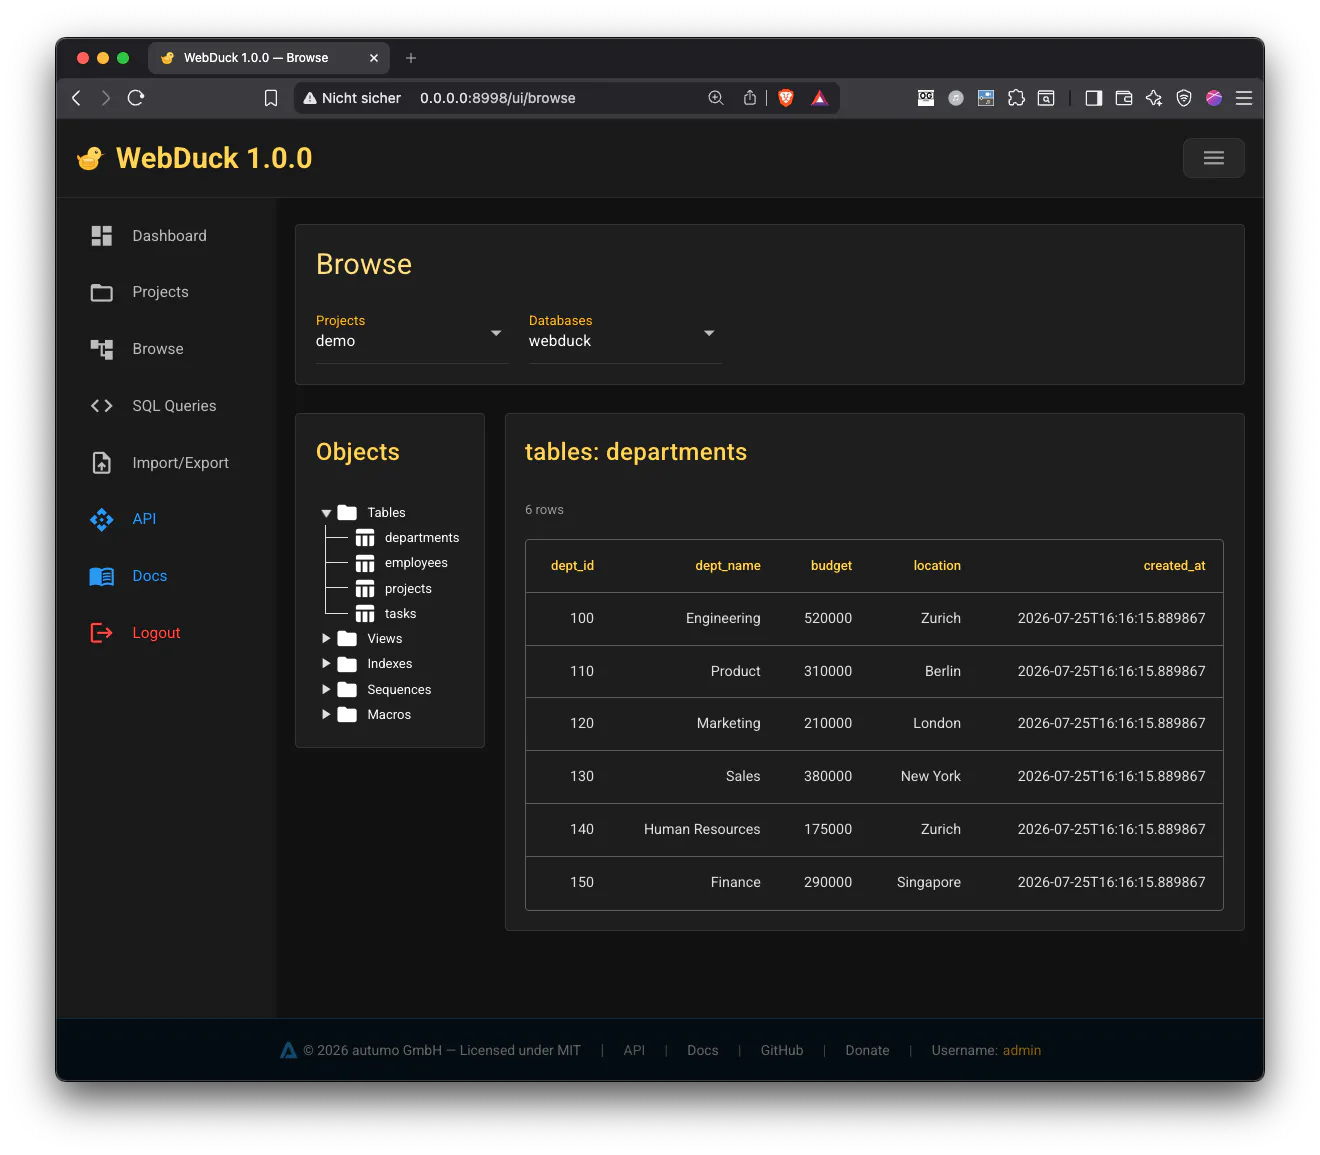
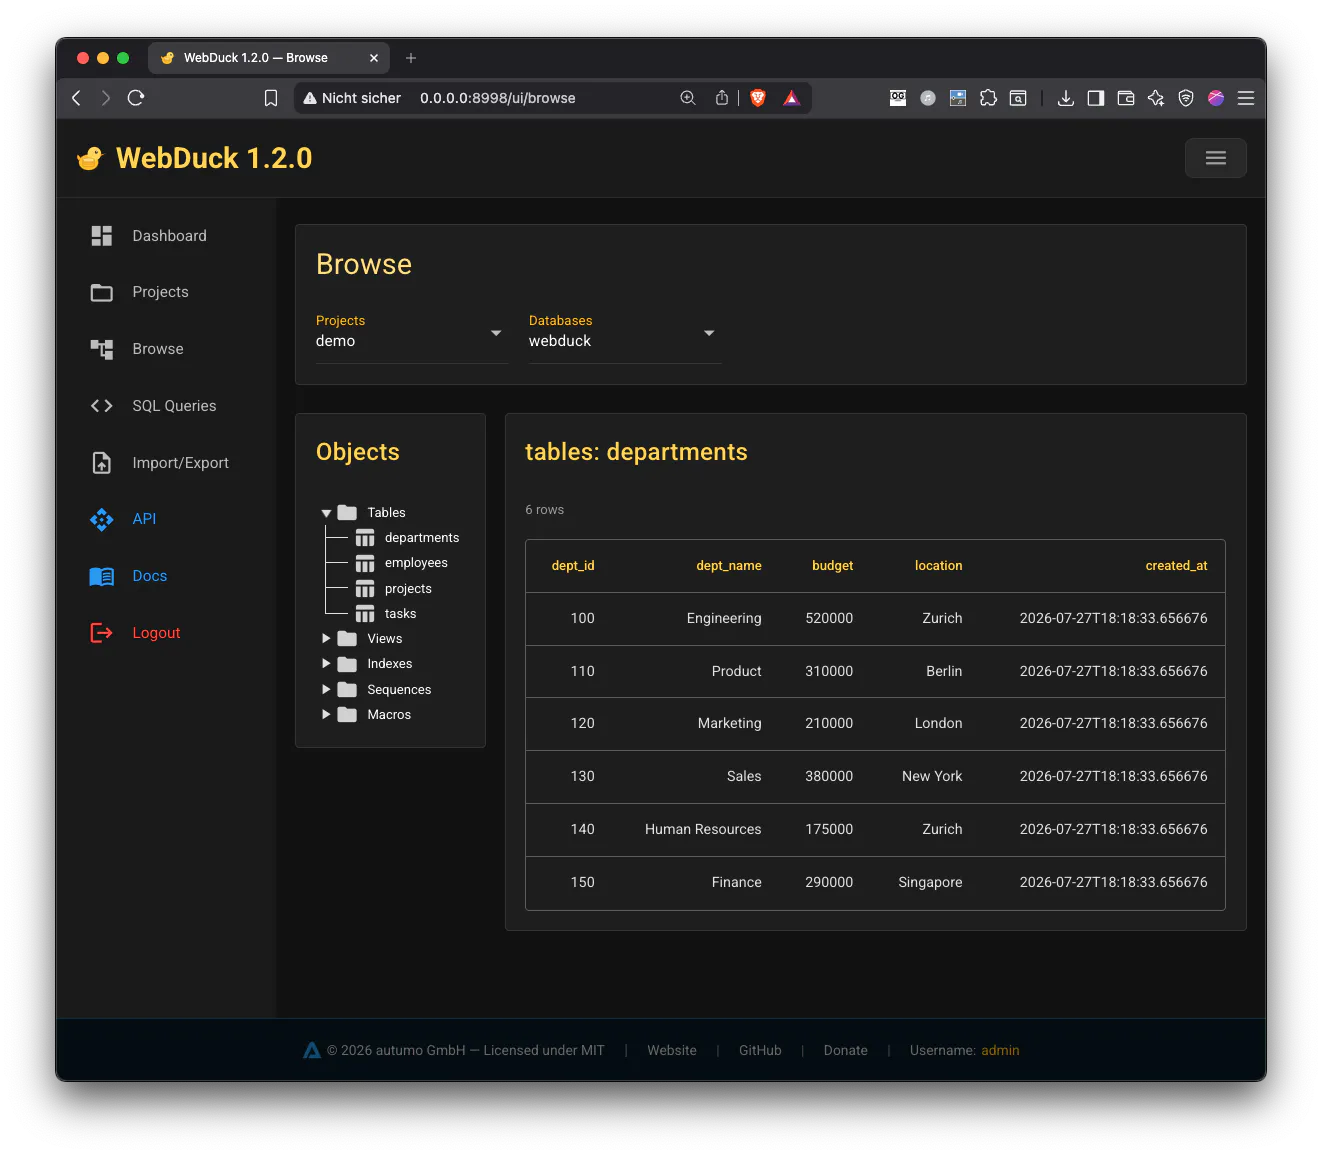
v1.2.0 - Stable Release

diff --git a/README.md b/README.md
@@ -1,5 +1,5 @@
 <div align="center">
-  <img src="src/webduck/static/icon.svg" width="128">
+  <img src="https://raw.githubusercontent.com/autumoswitzerland/Webduck/refs/heads/master/src/webduck/static/icon.svg" width="128">
   <h1>WebDuck</h1>
 
   A self-hosted DuckDB-as-a-Service server with REST API and Web UI.
@@ -7,7 +7,7 @@
   a ready-to-use administration interface for DuckDB databases and data analytics
   — out of the box, just like the database admin tools that come with any hosting package.
 
-  <img src="https://img.shields.io/badge/version-1.1.0-FFD54F">
+  <img src="https://img.shields.io/badge/version-1.2.0-FFD54F">
   <img src="https://img.shields.io/badge/license-MIT-green">
   <img src="https://img.shields.io/badge/python-3.11+-blue">
 
@@ -40,8 +40,8 @@
 
 <table>
 <tr>
-<td align="center"><strong>Projects</strong><br><a href="src/webduck/static/screen_projects.webp"><img src="src/webduck/static/screen_projects.webp" width="450"></a></td>
-<td align="center"><strong>Browse View</strong><br><a href="src/webduck/static/screen_browse.webp"><img src="src/webduck/static/screen_browse.webp" width="450"></a></td>
+<td align="center"><strong>Projects</strong><br><a href="https://raw.githubusercontent.com/autumoswitzerland/Webduck/refs/heads/master/src/webduck/static/screen_projects.webp"><img src="https://raw.githubusercontent.com/autumoswitzerland/Webduck/refs/heads/master/src/webduck/static/screen_projects.webp" width="450"></a></td>
+<td align="center"><strong>Browse View</strong><br><a href="https://raw.githubusercontent.com/autumoswitzerland/Webduck/refs/heads/master/src/webduck/static/screen_browse.webp"><img src="https://raw.githubusercontent.com/autumoswitzerland/Webduck/refs/heads/master/src/webduck/static/screen_browse.webp" width="450"></a></td>
 </tr>
 </table>
 
